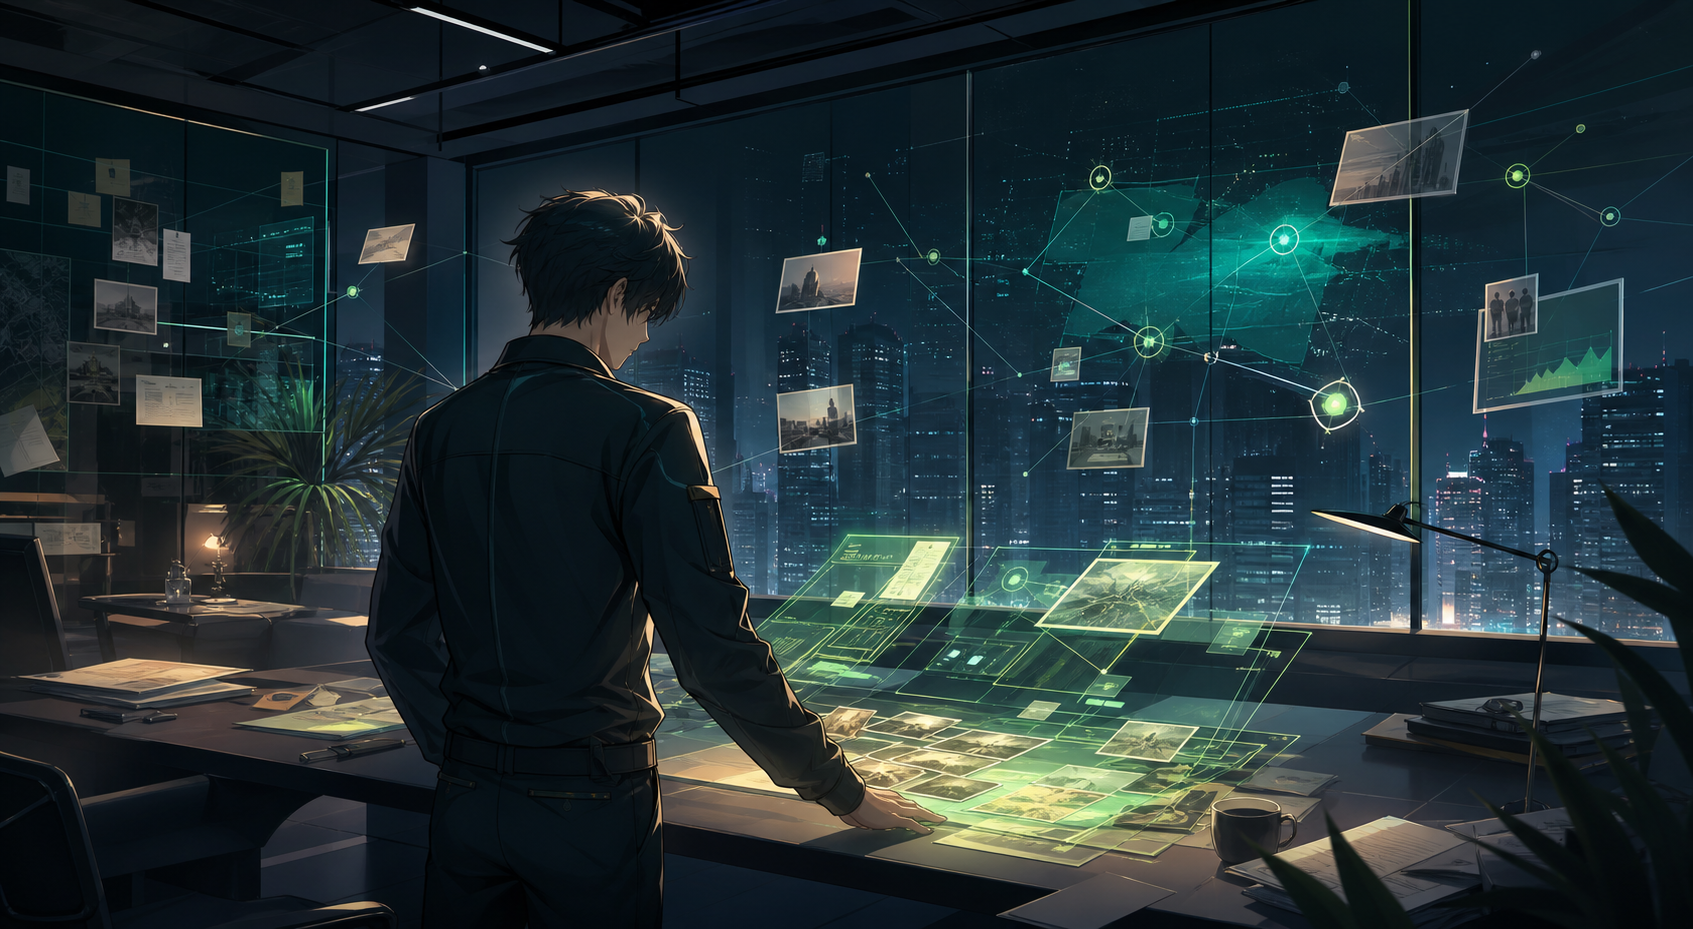
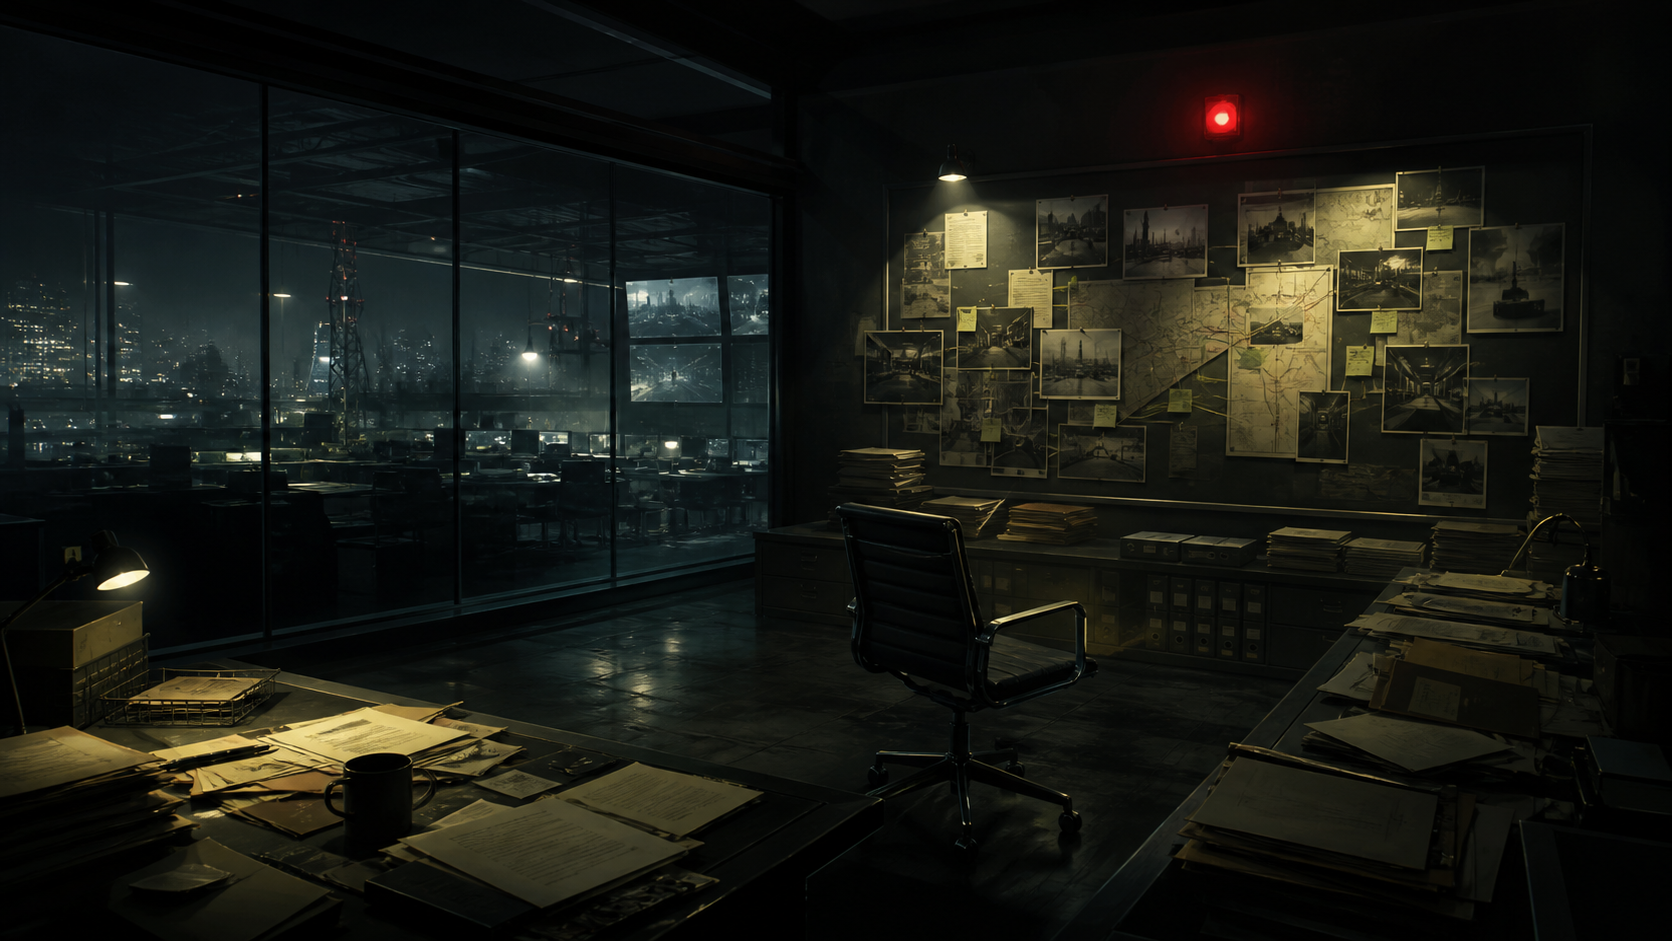
deepen-scene-ux

diff --git a/src/screens/PlayScreen.jsx b/src/screens/PlayScreen.jsx
@@ -216,59 +216,37 @@ export function PlayScreen({ view }) {
               width="1792"
               height="1024"
               loading="lazy"
+              onError={(event) => {
+                if (event.currentTarget.dataset.fallback === "true") return;
+                event.currentTarget.dataset.fallback = "true";
+                event.currentTarget.src = "/triggerlab-key-visual.png";
+              }}
             />
           </div>
           <div className="speaker">
-            <div>{node.speaker.slice(0, 1)}</div>
+            <img src="/speaker-profile.png" alt="" width="52" height="52" />
             <span>
               <b>{node.speaker}</b>
               <small>{speakerProfile.role} · {speakerProfile.stance}</small>
             </span>
           </div>
           <div className="scene-story">
-            <p className="scene-narration"><span className="story-label">상황</span>{speakerProfile.appearance} {speakerProfile.gesture}</p>
-            <p className="scene-thought"><span className="story-label">속마음</span>'{speakerProfile.thought}'</p>
-            <p className="scene-narration scene-direction"><span className="story-label">지금의 압박</span>{sceneDirection}</p>
-            <p className="scene-body"><span className="story-label">사건 보고</span>{node.text}</p>
+            <p className="scene-narration"><span className="story-label">장면의 표정</span>{speakerProfile.appearance} {speakerProfile.gesture}</p>
+            <p className="scene-body scene-critical"><span className="story-label">이번 장면의 핵심 상황</span>{node.text}</p>
+            <p className="scene-direction"><span className="story-label">왜 지금 결정해야 하나</span>{sceneDirection}</p>
             {latestFreeTextSuccess && latestFreeTextSuccess.nodeId !== resolvedNodeId && (
               <p className="scene-continuity-quote">
                 <span className="story-label">이어진 기록</span>
                 이전 문장이 다음 장면의 기준으로 남아 있다: “{latestFreeTextSuccess.freeText}”
               </p>
             )}
-            <p className="scene-dialogue"><span className="story-label">중요한 말</span>"{speakerProfile.line}" <span className="story-voice">({speakerProfile.voice})</span></p>
-            <p className="observer-whisper"><span className="story-label">관찰자 메모</span>{observerWhisper}</p>
-            {observerArc && (
-              <div className="observer-arc" aria-label="누적 관찰 패턴">
-                <span>{observerArc.label}</span>
-                <b>{observerArc.title}</b>
-                <small>{observerArc.text}</small>
-              </div>
-            )}
-            {observerPattern?.turningPoint && (
-              <div className="observer-turning-point" aria-label="관찰 패턴 전환점">
-                <span>{observerPattern.turningPoint.label}</span>
-                <b>{observerPattern.turningPoint.title}</b>
-                <small>이미 한 번 바뀐 기준이 있습니다. 이번 선택은 그 전환을 이어가거나 되돌립니다.</small>
-              </div>
-            )}
-            <div className="scene-stakes" aria-label="이번 장면의 긴장">
-              <article>
-                <span>걸림돌</span>
-                <b>{sceneChallenge.title}</b>
-                <small>{sceneChallenge.text}</small>
-              </article>
-              <article>
-                <span>가장 크게 새는 압박</span>
-                <b>{pressureLeader?.label ?? "현재 압박"}</b>
-                <small>{pressureLeader ? "이 축이 다음 선택의 대가를 가장 크게 흔듭니다." : "아직 뚜렷한 압박은 없습니다."}</small>
-              </article>
-              <article>
-                <span>다음 질문</span>
-                <b>{narrativeSpine.consequence}</b>
-                <small>{triggerLabSignals[currentCase]}</small>
-              </article>
-            </div>
+            <p className="scene-dialogue"><span className="story-label">상대가 던진 질문</span>"{speakerProfile.line}" <span className="story-voice">({speakerProfile.voice})</span></p>
+            <details className="scene-secondary">
+              <summary>장면의 여운과 단서 보기</summary>
+              <p className="scene-thought"><span className="story-label">속마음</span>'{speakerProfile.thought}'</p>
+              <p className="observer-whisper"><span className="story-label">관찰자 메모</span>{observerWhisper}</p>
+              <p className="scene-secondary-note"><span className="story-label">다음 장면의 질문</span>{narrativeSpine.nextQuestion}</p>
+            </details>
           </div>
         </div>
 

diff --git a/src/styles/app.css b/src/styles/app.css
@@ -1314,3 +1314,37 @@ body{color:var(--ink);background:linear-gradient(135deg,var(--c-tone-002),var(--
   .decision-reveal-stakes article,
   .ending-witness-log article{min-height:auto}
 }
+
+/* The scene is a reading beat first: image, speaker, critical situation, then choice. */
+.scene{grid-template-columns:1fr;gap:15px;padding:18px}
+.scene-visual{grid-row:auto;min-height:0;aspect-ratio:16 / 8;border-color:rgba(217,255,98,.36)}
+.scene-visual img{min-height:0;object-fit:cover;object-position:center 52%}
+.speaker{grid-column:auto;gap:12px;margin:0;padding:4px 0 2px}
+.speaker img{display:block;width:52px;height:52px;object-fit:cover;border:2px solid var(--c-acid);border-radius:50%;box-shadow:0 0 0 3px rgba(217,255,98,.12)}
+.speaker div{display:none}
+.scene-story{grid-column:auto;gap:11px;padding:0}
+.scene-narration{font-size:13px;line-height:1.55}
+.scene-body.scene-critical{padding:18px 19px;color:var(--c-ink);background:var(--c-paper);border:2px solid var(--c-acid);border-left:7px solid var(--c-acid);border-radius:7px;font-size:20px;font-weight:900;line-height:1.65;box-shadow:0 8px 0 rgba(217,255,98,.2)}
+.scene-critical .story-label{color:var(--c-teal-deep);font-size:11px}
+.scene-direction{padding:12px 14px;color:var(--c-paper);background:rgba(255,255,255,.09);border-left:4px solid var(--c-coral);border-radius:5px;font-size:15px;font-weight:800;line-height:1.6}
+.scene-dialogue{font-size:19px}
+.scene-secondary{padding:10px 12px;color:var(--c-line-soft);background:rgba(255,255,255,.055);border:1px solid rgba(255,255,255,.16);border-radius:6px}
+.scene-secondary summary{cursor:pointer;color:var(--c-acid);font-size:12px;font-weight:900}
+.scene-secondary p{margin-top:10px}
+.scene-secondary-note{color:var(--c-line-soft);font-size:13px;font-weight:700;line-height:1.5}
+.choice{color:#10241f;background:#fff;border-color:#31504a}
+.choice:hover,.choice:focus-visible{color:#10241f;background:#f4f8f1;border-color:#0e4b45}
+.choice.selected{color:#10241f;background:#e9f5b4;border-color:#315f43}
+.choice-speech{color:#10241f;background:#f7faf4;border-left-color:#315f43}
+.choice-dilemma{color:#173b34}
+.choice-action{color:#073d37;background:#e1f4eb;border-color:#5a9f82}
+.choice-effect,.choice-subtext{color:#24473f}
+.choice-effect-compact{color:#124e3f;background:#dff3e8;border-color:#5a9f82}
+.choice-observer-preview{color:#fff;background:#10241f}
+.choice-observer-preview small{color:#e9f5b4}
+@media (max-width:768px){
+  .scene{padding:14px}
+  .scene-visual{aspect-ratio:16 / 10}
+  .scene-body.scene-critical{font-size:18px;line-height:1.6}
+  .scene-dialogue{font-size:18px}
+}
